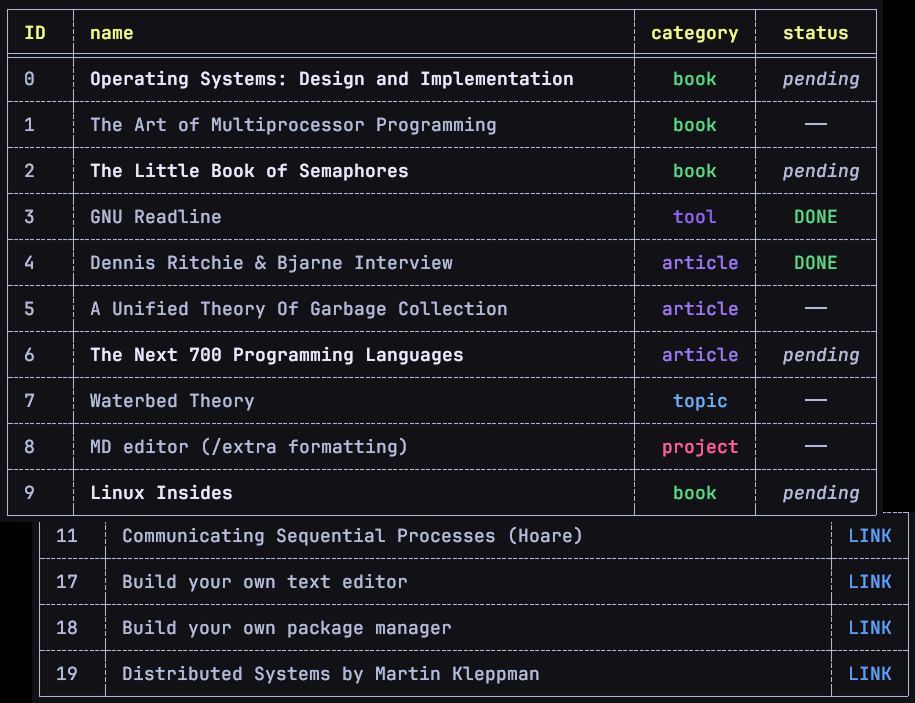
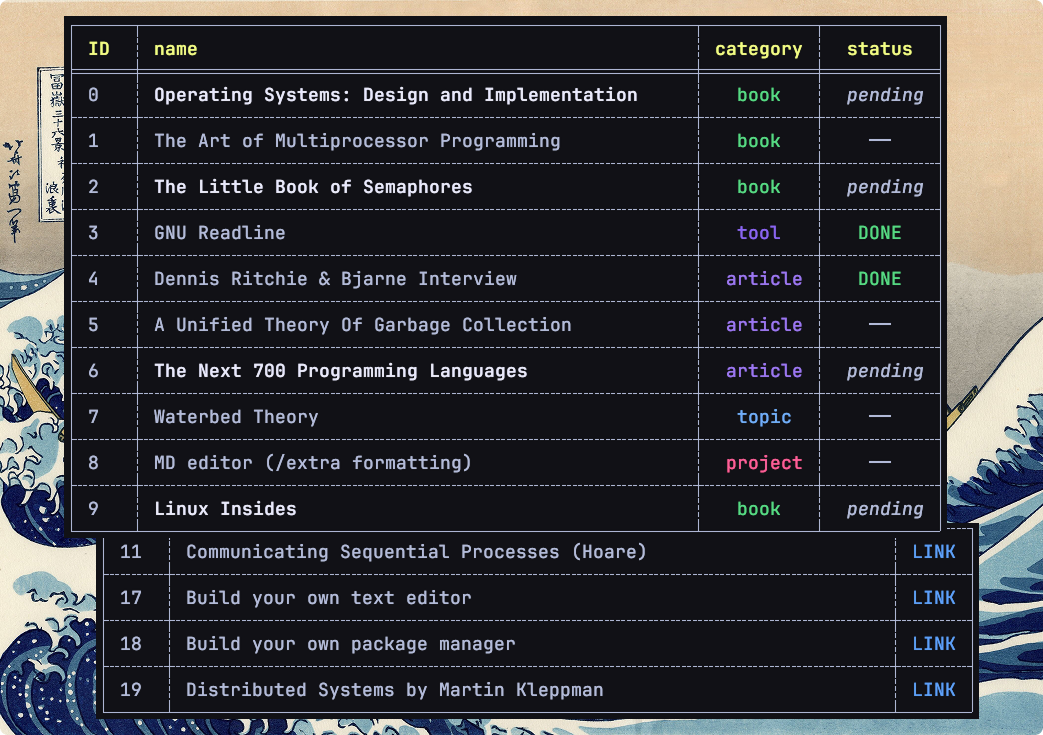
feat(config): add minimal configuration

diff --git a/src/command_types.rs b/src/command_types.rs
@@ -1,10 +1,10 @@
-use std::{fmt, str::FromStr};
+use std::{fmt, path::PathBuf, str::FromStr};
 
 use clap::{Parser, Subcommand};
-use comfy_table::Color;
+use comfy_table::{Color, presets};
 use serde::{Deserialize, Serialize};
 
-use crate::errors::Error;
+use crate::errors::{Error, Result};
 
 #[derive(Parser, Debug)]
 #[command(version = "0.1.0")]
@@ -36,6 +36,9 @@ pub enum Subcommands {
 
     #[clap(name = "copy-url", about = "copy bookmark url (alias: cp)", alias = "cp")]
     CopyUrl(CopyUrlArgs),
+
+    #[clap(name = "config", about = "configure arx")]
+    Config(ConfigArgs),
 }
 
 #[derive(Parser, Debug)]
@@ -95,7 +98,7 @@ pub enum Category {
 impl FromStr for Category {
     type Err = Error;
 
-    fn from_str(s: &str) -> Result<Self, Self::Err> {
+    fn from_str(s: &str) -> Result<Self> {
         match s.to_lowercase().as_str() {
             "book" => Ok(Category::Book),
             "article" => Ok(Category::Article),
@@ -180,7 +183,7 @@ pub enum SearchQuery {
 impl FromStr for SearchQuery {
     type Err = String;
 
-    fn from_str(s: &str) -> Result<Self, Self::Err> {
+    fn from_str(s: &str) -> std::result::Result<Self, Self::Err> {
         // Try parsing as u64 first
         if let Ok(id) = s.parse::<usize>() {
             Ok(SearchQuery::Id(id))
@@ -247,4 +250,68 @@ pub struct CopyUrlArgs {
         value_name = "ID | query"
     )]
     pub query: SearchQuery,
+}
+
+#[derive(Clone, clap::ValueEnum, Debug, Deserialize, Serialize)]
+#[clap(rename_all = "snake_case")]
+pub enum TableStyle {
+    AsciiFull,
+    AsciiFullCondensed,
+    AsciiNoBorders,
+    AsciiBordersOnly,
+    AsciiBordersOnlyCondensed,
+    AsciiHorizontalOnly,
+    AsciiMarkdown,
+    Utf8Full,
+    Utf8FullCondensed,
+    Utf8NoBorders,
+    Utf8BordersOnly,
+    Utf8HorizontalOnly,
+    Nothing,
+}
+
+impl TableStyle {
+    pub fn to_comfy_style(&self) -> &'static str {
+        match self {
+            TableStyle::AsciiFull => presets::ASCII_FULL,
+            TableStyle::AsciiFullCondensed => presets::ASCII_FULL_CONDENSED,
+            TableStyle::AsciiNoBorders => presets::ASCII_NO_BORDERS,
+            TableStyle::AsciiBordersOnly => presets::ASCII_BORDERS_ONLY,
+            TableStyle::AsciiBordersOnlyCondensed => presets::ASCII_BORDERS_ONLY_CONDENSED,
+            TableStyle::AsciiHorizontalOnly => presets::ASCII_HORIZONTAL_ONLY,
+            TableStyle::AsciiMarkdown => presets::ASCII_MARKDOWN,
+            TableStyle::Utf8Full => presets::UTF8_FULL,
+            TableStyle::Utf8FullCondensed => presets::UTF8_FULL_CONDENSED,
+            TableStyle::Utf8NoBorders => presets::UTF8_NO_BORDERS,
+            TableStyle::Utf8BordersOnly => presets::UTF8_BORDERS_ONLY,
+            TableStyle::Utf8HorizontalOnly => presets::UTF8_HORIZONTAL_ONLY,
+            TableStyle::Nothing => presets::NOTHING,
+        }
+    }
+}
+
+#[derive(Parser, Debug)]
+#[clap(group(
+    clap::ArgGroup::new("config-args")
+        .required(true)
+        .args(&["save-location", "table-style", "page-by"])
+))]
+pub struct ConfigArgs {
+    #[arg(long, short, name = "save-location")]
+    pub save_location: Option<PathBuf>,
+
+    #[arg(long, short, name = "table-style")]
+    pub table_style: Option<TableStyle>,
+
+    #[arg(long, short, name = "page-by")]
+    pub page_by: Option<usize>,
+}
+
+impl ConfigArgs {
+    pub fn validate(&self) -> Result<()> {
+        if self.save_location.is_none() && self.table_style.is_none() && self.page_by.is_none() {
+            return Err(Error::NoConfigArgs);
+        }
+        Ok(())
+    }
 }

diff --git a/src/commands.rs b/src/commands.rs
@@ -1,7 +1,8 @@
 use crate::command_types::{
-    AddArgs, CopyUrlArgs, DoneArgs, EditArgs, ListArgs, OpenArgs, RemoveArgs, SearchQuery,
+    AddArgs, ConfigArgs, CopyUrlArgs, DoneArgs, EditArgs, ListArgs, OpenArgs, RemoveArgs,
+    SearchQuery,
 };
-use crate::config::load_config;
+use crate::config::{Config, load_config};
 use crate::data::{Arx, Bookmark};
 use crate::{
     BookmarkStore, Cell, Error, ListFields, Status,
@@ -11,13 +12,14 @@ use crate::{
 use comfy_table::{
     Attribute, CellAlignment, Color, ColumnConstraint, Table, Width, presets::UTF8_FULL,
 };
+use std::fs;
 use std::io::{self, Write};
 use terminal_link::Link;
 
 impl Arx {
     pub fn init() -> Result<Arx> {
         let config = load_config()?;
-        let store = BookmarkStore::load()?;
+        let store = BookmarkStore::load(&config)?;
         Ok(Arx { store, config })
     }
 }
@@ -43,7 +45,7 @@ impl BookmarkStore {
         Ok(())
     }
 
-    pub fn list(&mut self, mut args: ListArgs) -> Result<()> {
+    pub fn list(&mut self, mut args: ListArgs, config: &Config) -> Result<()> {
         if self.bookmarks.is_empty() {
             println!("You have no bookmarks yet...");
             return Ok(());
@@ -53,7 +55,13 @@ impl BookmarkStore {
         self.filter_args(&mut args)?;
 
         let mut table = Table::new();
-        table.load_preset(UTF8_FULL);
+        table.load_preset(
+            config
+                .table_style
+                .as_ref()
+                .map(|s| s.to_comfy_style())
+                .unwrap_or(UTF8_FULL),
+        );
 
         // Initialize headers and calculate column widths
         let mut headers = vec![Cell::new("ID"), Cell::new("name")];
@@ -101,14 +109,16 @@ impl BookmarkStore {
             Some(page) => page,
             None => 1,
         };
-        if self.bookmarks.len() <= (page - 1) * 10 {
+        let paginate_by = config.page_by.unwrap_or(10);
+        if self.bookmarks.len() <= (page - 1) * paginate_by {
             return Err(Error::PageNotFound(page));
         }
+
         for bookmark in self
             .bookmarks
             .iter_mut()
-            .skip((page - 1) * 10)
-            .take(page * 10)
+            .skip((page - 1) * paginate_by)
+            .take(page * paginate_by)
         {
             let mut row = vec![
                 Cell::new(bookmark.id),
@@ -172,7 +182,7 @@ impl BookmarkStore {
         println!("{table}");
         println!(
             "Showing page {page} out of {} (specify with -p <num>)",
-            (self.bookmarks.len() + 9) / 10
+            self.bookmarks.len().div_ceil(paginate_by)
         );
         Ok(())
     }
@@ -311,6 +321,28 @@ impl BookmarkStore {
                 }
             }
         }
+        Ok(())
+    }
+
+    pub fn config(&self, args: ConfigArgs, config: &mut Config) -> Result<()> {
+        args.validate()?;
+        if let Some(mut path) = args.save_location {
+            if path.is_dir() {
+                path = path.join("bookmarks.json");
+            }
+            fs::rename(&config.save_location, &path)?;
+            config.save_location = path;
+        }
+        if let Some(num) = args.page_by {
+            if num == 0 {
+                return Err(Error::ZeroPagination);
+            }
+            config.page_by = Some(num);
+        }
+        if let Some(style) = args.table_style {
+            config.table_style = Some(style);
+        }
+        self.save_config(config)?;
         Ok(())
     }
 }

diff --git a/src/config.rs b/src/config.rs
@@ -3,7 +3,10 @@ use std::{fs, path::PathBuf, sync::LazyLock};
 use directories::ProjectDirs;
 use serde::{Deserialize, Serialize};
 
-use crate::errors::{Error, Result};
+use crate::{
+    command_types::TableStyle,
+    errors::{Error, Result},
+};
 
 #[derive(Default)]
 pub struct DefaultDirs {
@@ -12,21 +15,24 @@ pub struct DefaultDirs {
     error: bool,
 }
 
-pub static PROJECT_DIRS: LazyLock<DefaultDirs> = LazyLock::new(|| {
-    match ProjectDirs::from("dev", "offblck", "arx") {
+pub static PROJECT_DIRS: LazyLock<DefaultDirs> =
+    LazyLock::new(|| match ProjectDirs::from("dev", "offblck", "arx") {
         Some(dirs) => DefaultDirs {
             save_location: dirs.data_dir().join("bookmarks.json"),
             config_path: dirs.config_dir().join("config.toml"),
             error: false,
         },
-        None => DefaultDirs { error: true, ..DefaultDirs::default() }
-    }
-});
+        None => DefaultDirs { error: true, ..DefaultDirs::default() },
+    });
 
-#[derive(Serialize, Deserialize)]
+#[derive(Serialize, Deserialize, Default)]
 pub struct Config {
     #[serde(default = "default_save_location")]
     pub save_location: PathBuf,
+
+    pub table_style: Option<TableStyle>,
+
+    pub page_by: Option<usize>,
 }
 
 pub fn load_config() -> Result<Config> {
@@ -40,11 +46,10 @@ pub fn load_config() -> Result<Config> {
             let config: Config = toml::from_str(&data)?;
             Ok(config)
         }
-        false => {
-            Ok(Config { 
-                save_location: default_dirs.save_location.clone(), 
-            })
-        }
+        false => Ok(Config {
+            save_location: default_dirs.save_location.clone(),
+            ..Config::default()
+        }),
     }
 }
 

diff --git a/src/data.rs b/src/data.rs
@@ -1,4 +1,4 @@
-use std::{fs, path::PathBuf};
+use std::fs;
 
 use chrono::{DateTime, Utc};
 use serde::{Deserialize, Serialize};
@@ -45,13 +45,13 @@ pub struct Bookmark {
 // }
 
 impl BookmarkStore {
-    pub fn load() -> Result<BookmarkStore> {
+    pub fn load(config: &Config) -> Result<BookmarkStore> {
         // amend_possible_change(&save_location)?;
 
-        if !PROJECT_DIRS.save_location.exists() {
+        if !config.save_location.exists() {
             return Ok(BookmarkStore::default());
         }
-        let data = fs::read_to_string(&PROJECT_DIRS.save_location)?;
+        let data = fs::read_to_string(&config.save_location)?;
         let store: BookmarkStore = serde_json::from_str(&data)?;
         Ok(store)
     }
@@ -67,6 +67,14 @@ impl BookmarkStore {
             )?
         }
         Ok(fs::write(&PROJECT_DIRS.save_location, data)?)
+    }
+
+    pub fn save_config(&self, config: &mut Config) -> Result<()> {
+        let data = toml::to_string(config)?;
+        if !PROJECT_DIRS.config_path.exists() {
+            fs::create_dir_all(PROJECT_DIRS.config_path.parent().unwrap())?
+        }
+        Ok(fs::write(&PROJECT_DIRS.config_path, data)?)
     }
 }
 

diff --git a/src/main.rs b/src/main.rs
@@ -24,12 +24,13 @@ fn run() -> Result<()> {
     let mut arx = Arx::init()?;
     match cli.command {
         Subcommands::Add(args) => arx.store.add(args)?,
-        Subcommands::List(args) => arx.store.list(args)?,
+        Subcommands::List(args) => arx.store.list(args, &arx.config)?,
         Subcommands::Remove(query) => arx.store.remove(query)?,
         Subcommands::Edit(query) => arx.store.edit(query)?,
         Subcommands::Done(query) => arx.store.done(query)?,
         Subcommands::Open(query) => arx.store.open(query)?,
         Subcommands::CopyUrl(query) => arx.store.copy_url(query)?,
+        Subcommands::Config(args) => arx.store.config(args, &mut arx.config)?,
     }
     Ok(())
 }

diff --git a/src/errors.rs b/src/errors.rs
@@ -37,4 +37,10 @@ pub enum Error {
 
     #[error("I/O error: {0}")]
     Io(#[from] std::io::Error),
+
+    #[error("No config args provided")]
+    NoConfigArgs,
+
+    #[error("Can't paginate by 0")]
+    ZeroPagination,
 }

diff --git a/README.md b/README.md
@@ -32,6 +32,7 @@ but I know you are goated so put it in a PATH folder or symlink it and enjoy!
 
 # List of Commands
 ```
+Commands:
   add       add bookmark
   list      list bookmarks (alias: ls)
   remove    remove bookmark (alias: rm, del, delete)
@@ -39,6 +40,7 @@ but I know you are goated so put it in a PATH folder or symlink it and enjoy!
   edit      edit bookmark
   done      mark bookmark as done
   copy-url  copy bookmark url (alias: cp)
+  config    configure arx
   help      Print this message or the help of the given subcommand(s)
 
 Options:
@@ -55,10 +57,10 @@ arx config --save-location <path>
 ```
 
 List of configs:
-- `save_location <path>` – set the directory in which your data should be saved (arx moves the file for you)
-- `table_style <style>` – set the style of the displayed table \
+- `--save-location <path>` – set the directory in which your data should be saved (arx moves the file for you)
+- `--table-style <style>` – set the style of the displayed table \
   - values include all the variants found in [comfy_table](https://docs.rs/comfy-table/latest/comfy_table/presets/index.html) and it is set to "utf8_full" by default
-- `page_by <number | "all">` – sets the number of entries to show at a time. set to "all" to uncap. default: 10
+- `--page-by <number>` – sets the number of entries to show at a time. default: 10
 
 # Sync
 The save location is configurable, but by default user data gets saved in a `bookmarks.json` file using the `directories` rust crate, meaning:
